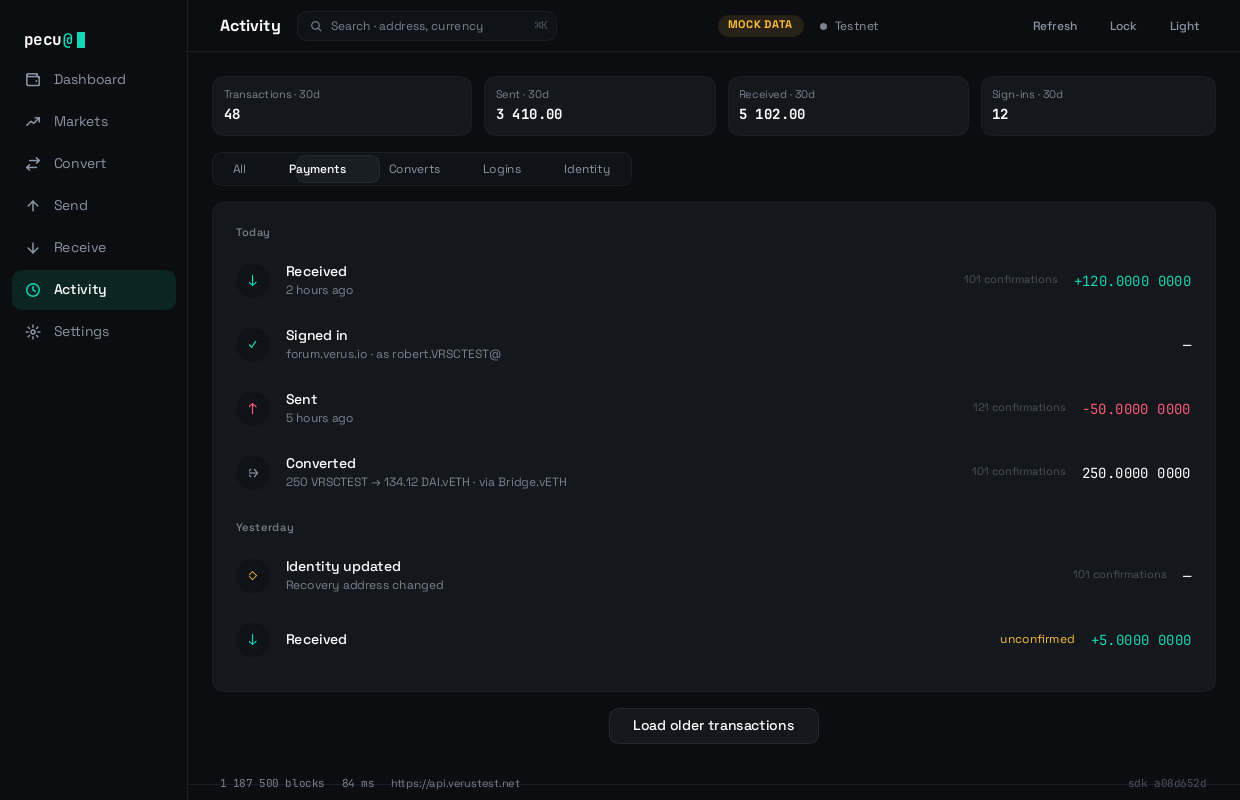
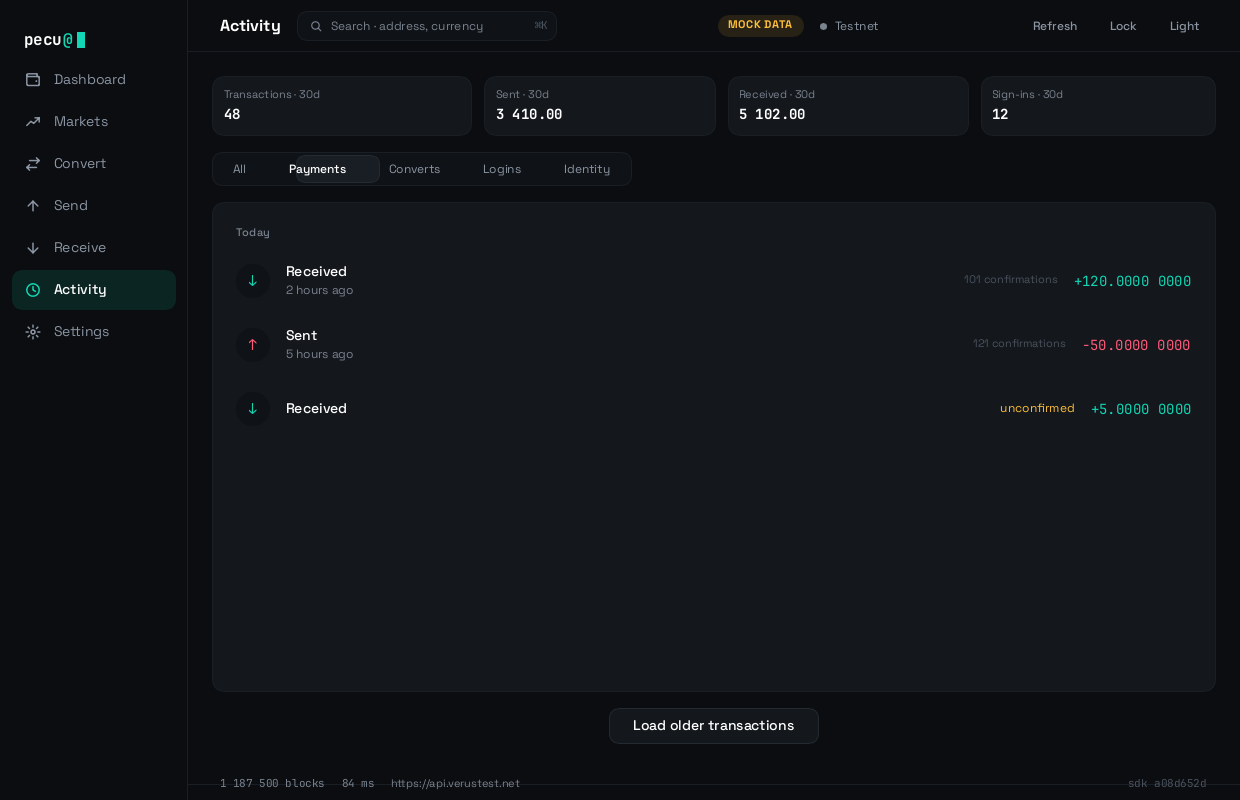
Filter the rows the history fixture says are filtered (#51)
`history_filtered` set `ActivityState.filter` to "payment" and left all
six rows of `history` in place, so `history-filtered-{light,dark}.png`
photographed "Payments" pressed above a login, a conversion and an
identity update. The wallet cannot produce that screen. The filter
property is only the echo that keeps the pressed chip from waiting on a
round trip — `portfolio::rows_from` drops every row of another kind
before the core sends the list, and `ui/vm/state.slint` records why the
filtering cannot live in `.slint` at all: a `ListView` places items by
their preferred height, so the `visible`-plus-zero-height attempt drew
six rows in two slots.

The cost is not that the picture was ugly. It is that the picture
guarded nothing. A reference image of an unreachable state stays green
through every change to the thing it appears to be about, so the two
images bought a false sense that the filter was under test while the
only property they actually pinned was that six rows still draw. That
argument is not new here. It is why `markets_crowded` unselects the row
`market_moving` leaves behind — a fixture that had quietly stopped being
the long-list case — and why the native menu bar was written, compiled,
rendered and then taken out again rather than photographed, which
`docs/LATER.md` §4d records in the same words: an image that describes a
wallet the product cannot produce.

So the fixture now filters its rows and then sets the chip. The three
[…]

diff --git a/crates/pecu-ui/tests/reachable_states.rs b/crates/pecu-ui/tests/reachable_states.rs
@@ -1,0 +1,111 @@
+//! A fixture may only photograph a state the wallet can actually reach.
+//!
+//! # Why this is a test and not a reference image
+//!
+//! A reference image cannot catch this. `tests/visual.rs` asks whether the
+//! interface still draws what it drew last time — it has no opinion about
+//! whether what it drew was ever reachable, so a fixture describing an
+//! impossible screen produces a green test forever. That is precisely how
+//! `history_filtered` sat for as long as it did: it pressed the "Payments"
+//! chip and left a login, a conversion and an identity update on the list, and
+//! nothing was red, because nothing here was ever asking that question.
+//!
+//! # The one invariant, and why it is this one
+//!
+//! `ActivityState.filter` is an **echo**. The core does the filtering and
+//! re-sends the list — `portfolio::rows_from` drops every row of another kind
+//! before it is sent, and `ui/vm/state.slint` records why that cannot be done
+//! in `.slint`. So on any screen the wallet can produce, a filter other than
+//! "all" implies every row on the list is of that kind. A fixture that sets one
+//! without the other is describing a different wallet.
+//!
+//! This runs over **every** case in `snapshot::CASES` rather than over
+//! `history_filtered` alone. The fixture that broke this was not written wrong
+//! on purpose; it was written before the filtering moved into the core and was
+//! never revisited. The next one will arrive the same way, so the guard is
+//! placed where a new case walks into it rather than where this one was.
+//!
+//! # What this does not check
+//!
+//! Every other way a fixture could invent a state. The figures on the history
+//! summary strip are admitted inventions, the day headings are hand-written
+//! rather than derived from `calendar_day`, and three of the four row kinds
+//! cannot be produced by this wallet at all — all three are deliberate and
+//! documented where they are written. This asserts one relationship between two
+//! pieces of state, which is the one the product enforces on itself.
+
+// Clippy's test exemptions cover `#[test]` functions, not the helpers beside
+// them, and this whole file is test code.
+#![allow(clippy::expect_used)]
+
+use pecu_ui::{ActivityState, AppWindow, WalletState};
+use slint::{ComponentHandle, Model};
+
+/// The window each fixture is applied to, wired as `snapshot::render` wires it.
+///
+/// The chart and sparkline callbacks are installed because several fixtures
+/// seed them, and an uninstalled chart is not a state any of them expect. The
+/// window is never shown and nothing is drawn: this reads view state, so laying
+/// it out would only make it slower.
+fn seeded(seed: fn(&AppWindow)) -> AppWindow {
+    let ui = AppWindow::new().expect("a window");
+    pecu_ui::chart::install(&ui);
+    pecu_ui::spark::install(&ui);
+    seed(&ui);
+    ui
+}
+
+#[test]
+fn a_filtered_history_fixture_holds_only_rows_of_that_kind() {
+    i_slint_backend_testing::init_no_event_loop();
+
+    let mut impossible = Vec::new();
+    let mut checked = 0usize;
+
+    for &(_screen, label, seed) in pecu_ui::snapshot::CASES {
+        let ui = seeded(seed);
+
+        let filter = ui.global::<ActivityState>().get_filter();
+        // "all" is the unfiltered list and the default, and says nothing about
+        // the rows. Empty is not a filter the chips can produce; treated the
+        // same rather than failed, because the claim here is about the rows.
+        if filter.is_empty() || filter == "all" {
+            continue;
+        }
+        checked += 1;
+
+        let rows = ui.global::<WalletState>().get_history();
+        let strays: Vec<String> = (0..rows.row_count())
+            .filter_map(|i| rows.row_data(i))
+            .filter(|row| row.kind != filter)
+            .map(|row| row.kind.to_string())
+            .collect();
+
+        if !strays.is_empty() {
+            impossible.push(format!(
+                "{label}: the filter is {filter:?} and {} of {} rows are not — {}",
+                strays.len(),
+                rows.row_count(),
+                strays.join(", "),
+            ));
+        }
+    }
+
+    assert!(
+        impossible.is_empty(),
+        "these fixtures photograph a filtered history the wallet cannot \
+         produce:\n  {}\n\n\
+         The core filters the list before it sends it, so a filter other than \
+         \"all\" leaves only rows of that kind. Filter the fixture's rows too, \
+         or set the filter back to \"all\".",
+        impossible.join("\n  "),
+    );
+
+    // A silent zero would mean this file had stopped testing anything — the
+    // failure mode of a loop that finds its subject by inspection rather than
+    // by name. `history-filtered` is that subject today.
+    assert!(
+        checked > 0,
+        "no fixture sets a history filter, so this test checked nothing",
+    );
+}

diff --git a/crates/pecu-ui/src/fixtures.rs b/crates/pecu-ui/src/fixtures.rs
@@ -293,9 +293,63 @@ pub fn history(ui: &AppWindow) {
 
 /// The same list with one filter applied, which is the state the filters exist
 /// for and the one that shows what they do to a short list.
+///
+/// # The rows are filtered, not only the chip
+///
+/// This used to set `filter` and leave all six rows where they were, so the
+/// reference image showed "Payments" pressed above a login, a conversion and an
+/// identity update. **The wallet cannot reach that state.**
+/// `ActivityState.filter` is only the echo that keeps the pressed chip from
+/// waiting on a round trip — the list itself arrives already filtered, because
+/// `portfolio::rows_from` drops every row of another kind *before* the core
+/// sends it, and `ui/vm/state.slint` says why the filtering cannot live in
+/// `.slint` at all.
+///
+/// A picture of a screen the product cannot produce guards nothing: the test
+/// stays green through any change to the filter, because the image was never
+/// of the filter working. This is the same fault `markets_crowded` was fixed
+/// for — a fixture that left a selection in place and quietly stopped being the
+/// long-list case — and the reason the native menu bar was built, rendered and
+/// taken out again rather than photographed, `docs/LATER.md` §4d.
 pub fn history_filtered(ui: &AppWindow) {
     history(ui);
+    filter_history(ui, "payment");
     ui.global::<ActivityState>().set_filter("payment".into());
+}
+
+/// Keep only the history rows of one kind, which is what the core sends when a
+/// filter chip is pressed.
+///
+/// # The day headings are left alone
+///
+/// `rows_from` filters first and assigns headings second, to the first row of
+/// each day. Dropping the three non-payment rows empties exactly one day —
+/// yesterday, whose only row was the identity update — so its heading leaves
+/// with it, and every row that survives is one of today's, under the heading
+/// the first of them already carries. No surviving row gains or loses a day, so
+/// there is nothing to recompute here and recomputing it would mean teaching
+/// this crate a second copy of `calendar_day`.
+///
+/// Refusing loudly when nothing survives, on the same bargain [`when_note`]
+/// makes: this runs only while a reference image is being rendered, so a
+/// refusal is a failed render rather than anything a user can reach — and a
+/// filtered fixture that photographed an empty list would be a second picture
+/// of the empty state wearing the filter's name.
+fn filter_history(ui: &AppWindow, kind: &str) {
+    let wallet = ui.global::<WalletState>();
+    let rows = wallet.get_history();
+    let kept: Vec<ActivityRow> = (0..rows.row_count())
+        .filter_map(|i| rows.row_data(i))
+        .filter(|row| row.kind == kind)
+        .collect();
+
+    assert!(
+        !kept.is_empty(),
+        "no history row is a {kind:?}, so filtering to it photographs the empty \
+         state rather than the filter",
+    );
+
+    wallet.set_history(ModelRc::from(Rc::new(VecModel::from(kept))));
 }
 
 /// The markets table, with nothing picked.
